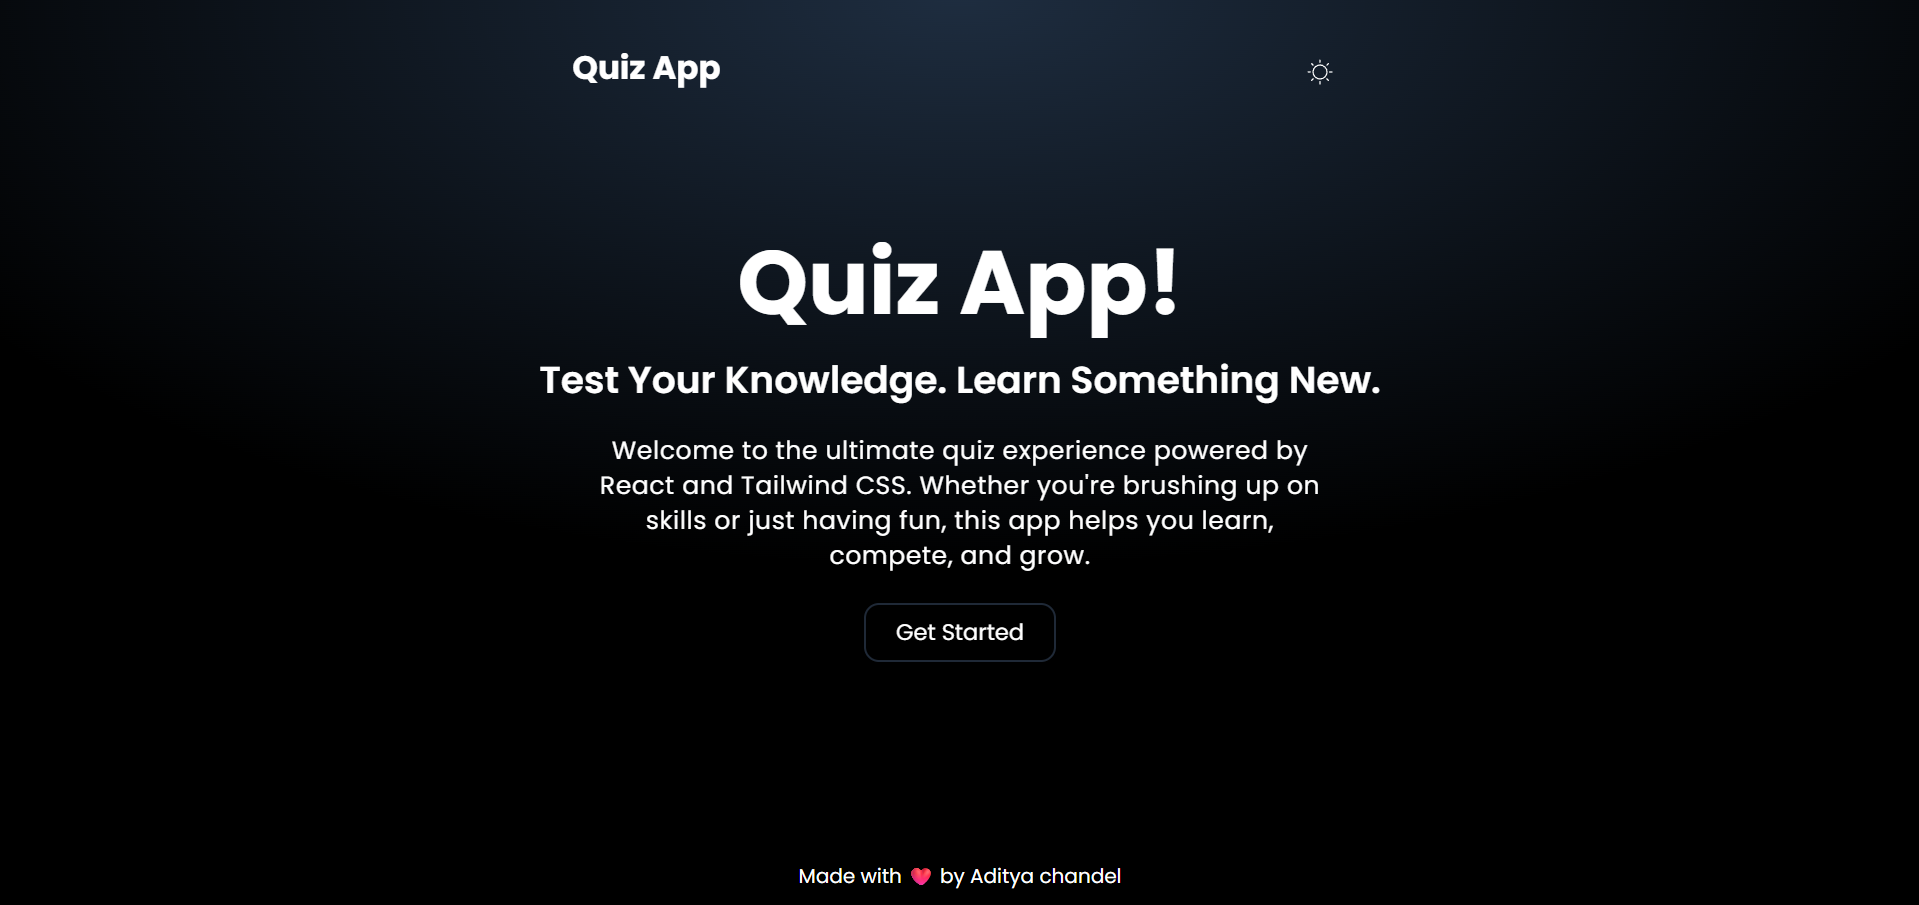
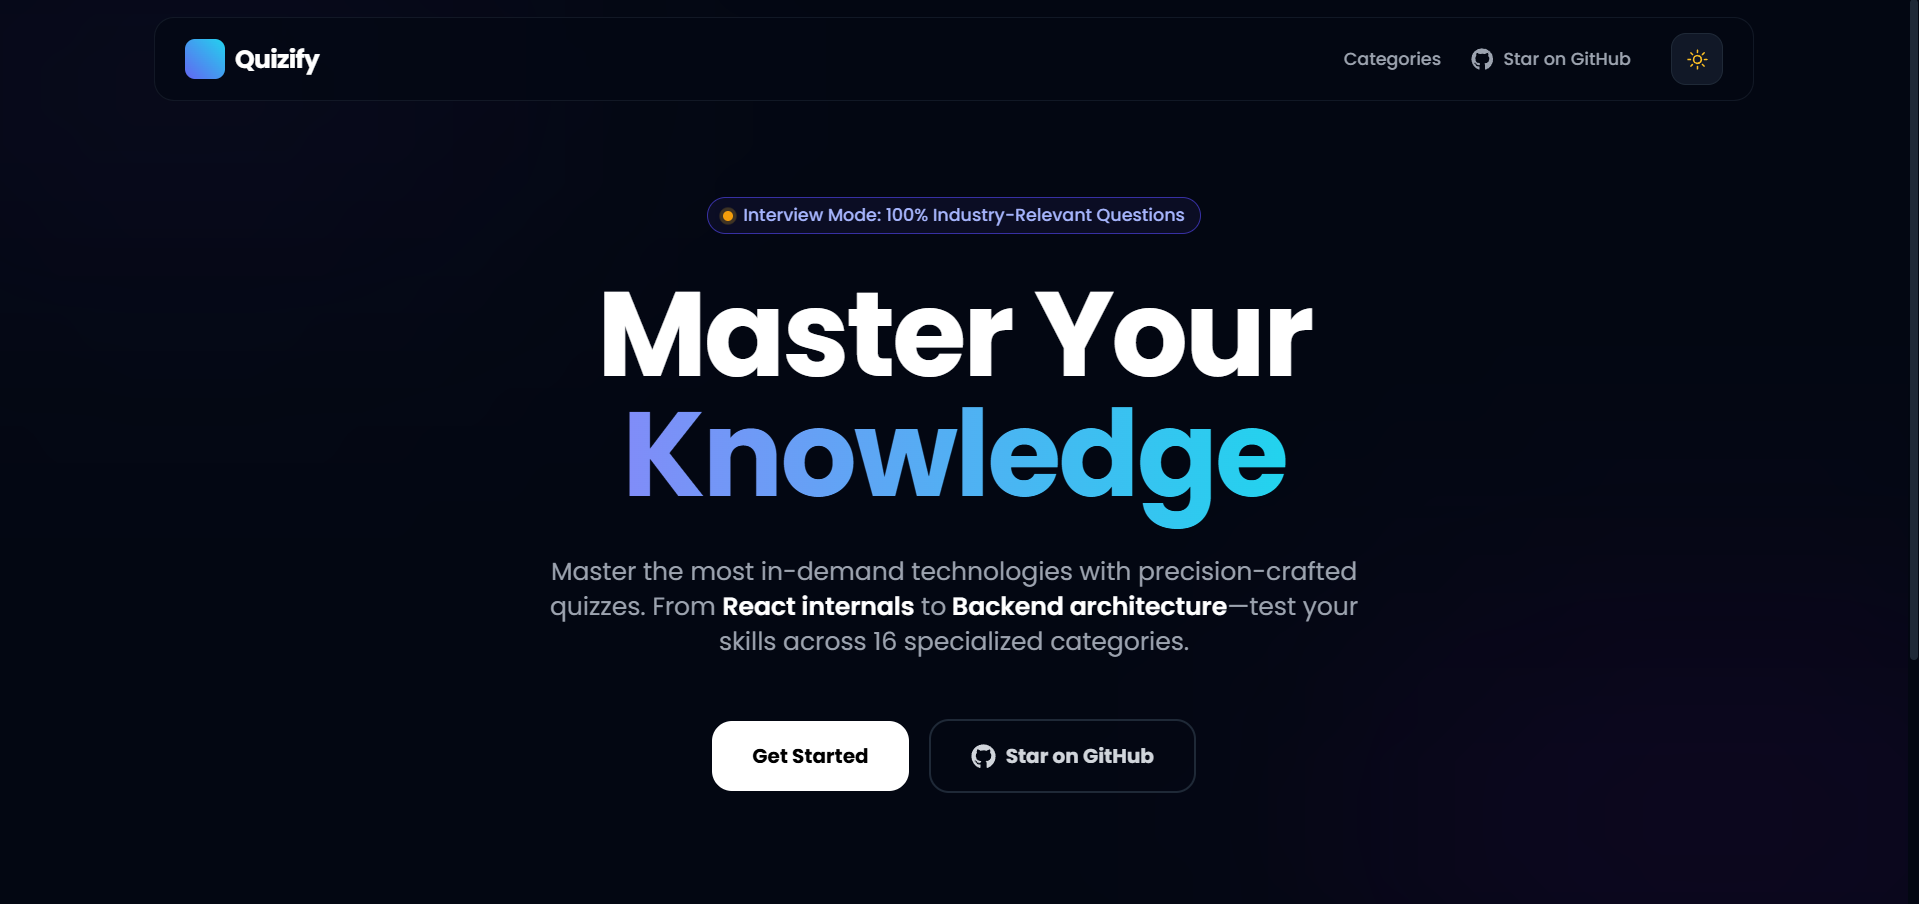
Updated Quiz app preview + description

diff --git a/src/Pages/Projects.jsx b/src/Pages/Projects.jsx
@@ -27,8 +27,8 @@ export default function Projects() {
             icon: <LuDatabase className="text-emerald-400" />
         },
         {
-            title: "React Quiz App",
-            summary: "Dynamic platform with score tracking, review sections, and dual-theme support for an optimal testing experience.",
+            title: "Quizify",
+            summary: "Responsive React + Tailwind interview quiz platform with multi-topic quizzes, instant scoring, answer review, and light/dark mode for a smooth experience.",
             tech: ["React Js", "Tailwind CSS", "React Router"],
             image: "/images/Projects/Quiz.png",
             live: "https://quiz-app-drab-beta.vercel.app/",
